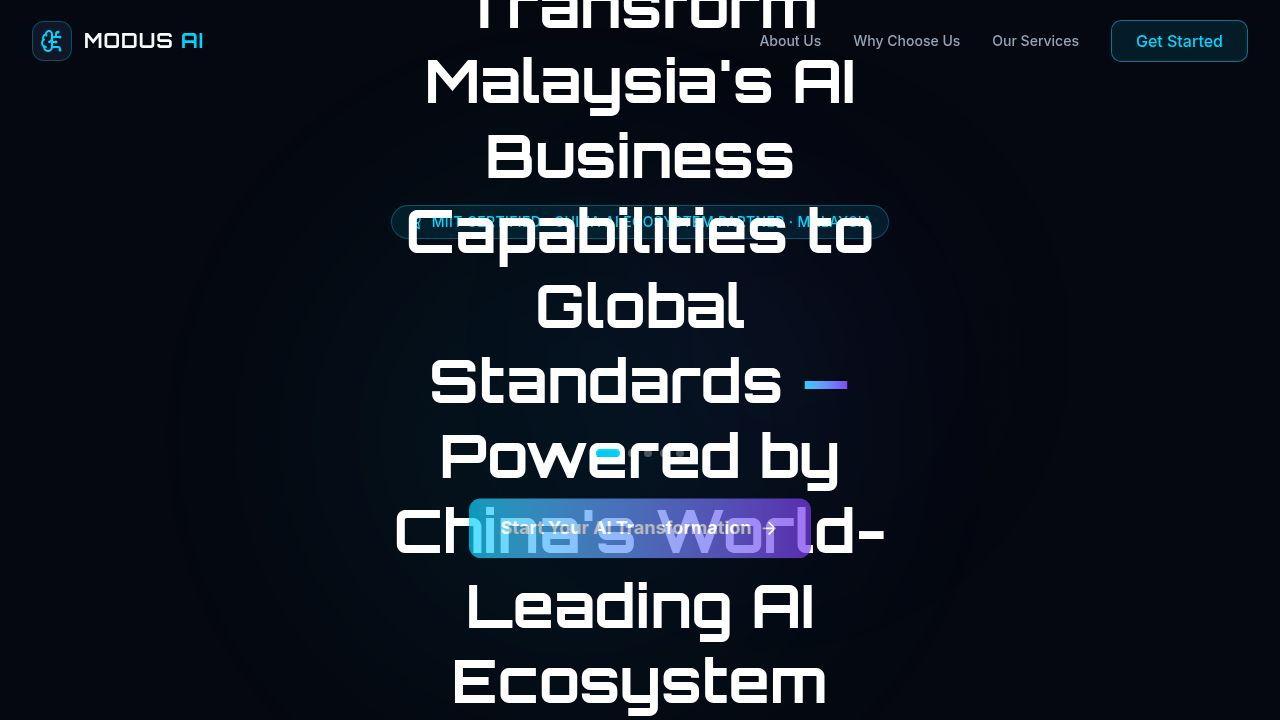
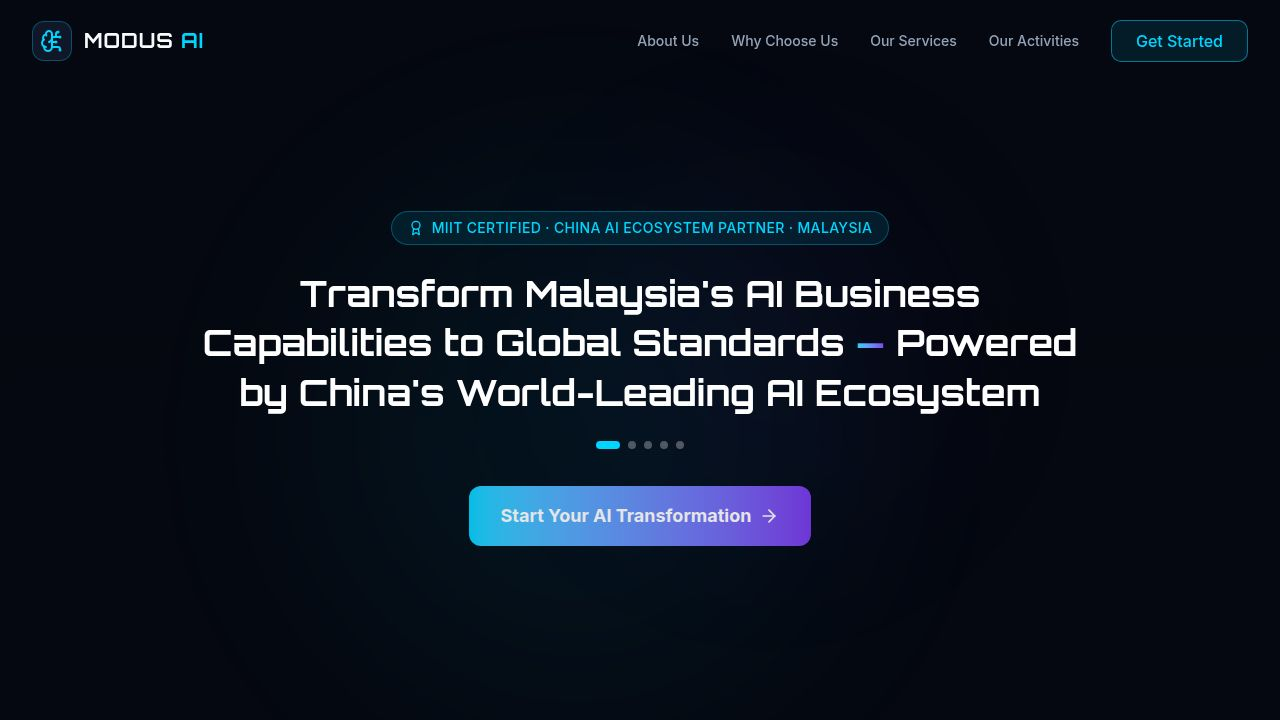
Add a functional contact form for website inquiries
Implement backend API route for form submission and frontend form with state management and validation.

Replit-Commit-Author: Agent
Replit-Commit-Session-Id: a2228504-6bd8-481e-8679-bb3c3d116ad2
Replit-Commit-Checkpoint-Type: full_checkpoint
Replit-Commit-Event-Id: 1f1a5812-d941-4a13-b891-e55131855f3d
Replit-Commit-Screenshot-Url: https://storage.googleapis.com/screenshot-production-us-central1/6e69340e-50b2-4e50-b16f-20813a3c9943/a2228504-6bd8-481e-8679-bb3c3d116ad2/J3GVXy0
Replit-Helium-Checkpoint-Created: true

Changed region(s): [[0.1562, 0.275, 0.8438, 1.0], [0.3125, 0.0, 0.75, 0.2444], [0.7812, 0.0306, 0.8438, 0.0611]]

diff --git a/artifacts/modus-ai/src/pages/details.tsx b/artifacts/modus-ai/src/pages/details.tsx
@@ -1,10 +1,10 @@
-import React, { useEffect } from "react";
+import React, { useEffect, useState } from "react";
 import { Navbar } from "@/components/layout/Navbar";
 import { motion } from "framer-motion";
 import { Link, useLocation } from "wouter";
 import {
   ArrowLeft, CheckCircle2, ChevronRight,
-  Mail, MapPin, Phone, Send, Award, Globe2, BookOpen, Users, Briefcase, Bot, Camera
+  Mail, MapPin, Phone, Send, Award, Globe2, BookOpen, Users, Briefcase, Bot, Camera, Loader2
 } from "lucide-react";
 import launchImg from "@assets/image_1775812766946.png";
 import ribbonImg from "@assets/WhatsApp_Image_2026-04-03_at_5.40.49_PM_1775209677927.jpeg";
@@ -20,8 +20,64 @@ const sectionVariants = {
   visible: { opacity: 1, y: 0, transition: { duration: 0.8, ease: "easeOut" } },
 };
 
+type FormState = {
+  name: string;
+  company: string;
+  email: string;
+  message: string;
+};
+
+type SubmitStatus = "idle" | "loading" | "success" | "error";
+
 export default function Details() {
   const [location] = useLocation();
+  const [form, setForm] = useState<FormState>({ name: "", company: "", email: "", message: "" });
+  const [errors, setErrors] = useState<Partial<FormState>>({});
+  const [submitStatus, setSubmitStatus] = useState<SubmitStatus>("idle");
+  const [errorMessage, setErrorMessage] = useState("");
+
+  const validate = (): boolean => {
+    const newErrors: Partial<FormState> = {};
+    if (!form.name.trim()) newErrors.name = "Name is required";
+    if (!form.email.trim()) newErrors.email = "Email is required";
+    else if (!/^[^\s@]+@[^\s@]+\.[^\s@]+$/.test(form.email)) newErrors.email = "Enter a valid email";
+    if (!form.message.trim()) newErrors.message = "Message is required";
+    setErrors(newErrors);
+    return Object.keys(newErrors).length === 0;
+  };
+
+  const handleChange = (field: keyof FormState) => (
+    e: React.ChangeEvent<HTMLInputElement | HTMLTextAreaElement>
+  ) => {
+    setForm((prev) => ({ ...prev, [field]: e.target.value }));
+    if (errors[field]) setErrors((prev) => ({ ...prev, [field]: undefined }));
+  };
+
+  const handleSubmit = async (e: React.FormEvent) => {
+    e.preventDefault();
+    if (!validate()) return;
+    setSubmitStatus("loading");
+    setErrorMessage("");
+    try {
+      const res = await fetch("/api/contact", {
+        method: "POST",
+        headers: { "Content-Type": "application/json" },
+        body: JSON.stringify({ ...form, honeypot: "" }),
+      });
+      const data = await res.json();
+      if (data.success) {
+        setSubmitStatus("success");
+        setForm({ name: "", company: "", email: "", message: "" });
+        setTimeout(() => setSubmitStatus("idle"), 6000);
+      } else {
+        setSubmitStatus("error");
+        setErrorMessage(data.error ?? "Failed to send. Please try again.");
+      }
+    } catch {
+      setSubmitStatus("error");
+      setErrorMessage("Network error. Please check your connection and try again.");
+    }
+  };
 
   useEffect(() => {
     const hash = window.location.hash;
@@ -344,49 +400,101 @@ export default function Details() {
               </div>
 
               <div className="bg-background/50 p-6 md:p-8 rounded-2xl border border-white/10 backdrop-blur-md">
-                <form className="space-y-4" onSubmit={(e) => e.preventDefault()}>
-                  <div className="grid grid-cols-1 sm:grid-cols-2 gap-4">
-                    <div className="space-y-2">
-                      <label className="text-sm font-medium text-white/70">Name</label>
-                      <Input
-                        className="bg-black/50 border-white/10 focus-visible:border-primary focus-visible:ring-primary/20"
-                        placeholder="John Doe"
-                        data-testid="form-name"
-                      />
-                    </div>
-                    <div className="space-y-2">
-                      <label className="text-sm font-medium text-white/70">Company</label>
-                      <Input
-                        className="bg-black/50 border-white/10 focus-visible:border-primary focus-visible:ring-primary/20"
-                        placeholder="Acme Corp"
-                        data-testid="form-company"
-                      />
-                    </div>
-                  </div>
-                  <div className="space-y-2">
-                    <label className="text-sm font-medium text-white/70">Email</label>
-                    <Input
-                      type="email"
-                      className="bg-black/50 border-white/10 focus-visible:border-primary focus-visible:ring-primary/20"
-                      placeholder="[email redacted]"
-                      data-testid="form-email"
-                    />
-                  </div>
-                  <div className="space-y-2">
-                    <label className="text-sm font-medium text-white/70">Message</label>
-                    <Textarea
-                      className="bg-black/50 border-white/10 focus-visible:border-primary focus-visible:ring-primary/20 min-h-[120px]"
-                      placeholder="Tell us about your business goals..."
-                      data-testid="form-message"
-                    />
-                  </div>
-                  <Button
-                    className="w-full bg-gradient-to-r from-primary to-secondary hover:opacity-90 text-white font-bold h-12 mt-4 transition-all hover:shadow-[0_0_20px_rgba(0,212,255,0.4)]"
-                    data-testid="form-submit"
+                {submitStatus === "success" ? (
+                  <motion.div
+                    initial={{ opacity: 0, scale: 0.95 }}
+                    animate={{ opacity: 1, scale: 1 }}
+                    className="flex flex-col items-center justify-center text-center py-12 gap-4"
                   >
-                    <Send className="w-4 h-4 mr-2" /> Send Message
-                  </Button>
-                </form>
+                    <div className="w-16 h-16 rounded-full bg-green-500/10 border border-green-500/30 flex items-center justify-center">
+                      <CheckCircle2 className="w-8 h-8 text-green-400" />
+                    </div>
+                    <h3 className="text-xl font-display font-bold text-white">Message Sent!</h3>
+                    <p className="text-muted-foreground text-sm max-w-xs">
+                      Thank you for reaching out. Our team will get back to you shortly.
+                    </p>
+                  </motion.div>
+                ) : (
+                  <form className="space-y-4" onSubmit={handleSubmit} noValidate>
+                    {/* Honeypot — hidden from real users */}
+                    <input
+                      type="text"
+                      name="honeypot"
+                      style={{ display: "none" }}
+                      tabIndex={-1}
+                      autoComplete="off"
+                      aria-hidden="true"
+                    />
+                    <div className="grid grid-cols-1 sm:grid-cols-2 gap-4">
+                      <div className="space-y-1">
+                        <label className="text-sm font-medium text-white/70">Name <span className="text-primary">*</span></label>
+                        <Input
+                          className={`bg-black/50 border-white/10 focus-visible:border-primary focus-visible:ring-primary/20 ${errors.name ? "border-red-500/60" : ""}`}
+                          placeholder="John Doe"
+                          value={form.name}
+                          onChange={handleChange("name")}
+                          disabled={submitStatus === "loading"}
+                          data-testid="form-name"
+                        />
+                        {errors.name && <p className="text-xs text-red-400">{errors.name}</p>}
+                      </div>
+                      <div className="space-y-1">
+                        <label className="text-sm font-medium text-white/70">Company</label>
+                        <Input
+                          className="bg-black/50 border-white/10 focus-visible:border-primary focus-visible:ring-primary/20"
+                          placeholder="Acme Corp"
+                          value={form.company}
+                          onChange={handleChange("company")}
+                          disabled={submitStatus === "loading"}
+                          data-testid="form-company"
+                        />
+                      </div>
+                    </div>
+                    <div className="space-y-1">
+                      <label className="text-sm font-medium text-white/70">Email <span className="text-primary">*</span></label>
+                      <Input
+                        type="email"
+                        className={`bg-black/50 border-white/10 focus-visible:border-primary focus-visible:ring-primary/20 ${errors.email ? "border-red-500/60" : ""}`}
+                        placeholder="[email redacted]"
+                        value={form.email}
+                        onChange={handleChange("email")}
+                        disabled={submitStatus === "loading"}
+                        data-testid="form-email"
+                      />
+                      {errors.email && <p className="text-xs text-red-400">{errors.email}</p>}
+                    </div>
+                    <div className="space-y-1">
+                      <label className="text-sm font-medium text-white/70">Message <span className="text-primary">*</span></label>
+                      <Textarea
+                        className={`bg-black/50 border-white/10 focus-visible:border-primary focus-visible:ring-primary/20 min-h-[120px] ${errors.message ? "border-red-500/60" : ""}`}
+                        placeholder="Tell us about your business goals..."
+                        value={form.message}
+                        onChange={handleChange("message")}
+                        disabled={submitStatus === "loading"}
+                        data-testid="form-message"
+                      />
+                      {errors.message && <p className="text-xs text-red-400">{errors.message}</p>}
+                    </div>
+                    {submitStatus === "error" && (
+                      <div className="flex items-start gap-2 p-3 rounded-lg bg-red-500/10 border border-red-500/30 text-red-400 text-sm">
+                        <span className="shrink-0 mt-0.5">⚠</span>
+                        <span>{errorMessage}</span>
+                      </div>
+                    )}
+                    <Button
+                      type="submit"
+                      disabled={submitStatus === "loading"}
+                      className="w-full bg-gradient-to-r from-primary to-secondary hover:opacity-90 text-white font-bold h-12 mt-4 transition-all hover:shadow-[0_0_20px_rgba(0,212,255,0.4)] disabled:opacity-60 disabled:cursor-not-allowed"
+                      data-testid="form-submit"
+                    >
+                      {submitStatus === "loading" ? (
+                        <><Loader2 className="w-4 h-4 mr-2 animate-spin" /> Sending...</>
+                      ) : (
+                        <><Send className="w-4 h-4 mr-2" /> Send Message</>
+                      )}
+                    </Button>
+                  </form>
+                )}
               </div>
             </div>
           </div>

diff --git a/artifacts/api-server/src/routes/contact.ts b/artifacts/api-server/src/routes/contact.ts
@@ -1,0 +1,95 @@
+import { Router } from "express";
+import { Resend } from "resend";
+
+const router = Router();
+
+const resend = new Resend(process.env.RESEND_API_KEY);
+
+const RECIPIENT = "[email redacted]";
+
+function validateEmail(email: string): boolean {
+  return /^[^\s@]+@[^\s@]+\.[^\s@]+$/.test(email);
+}
+
+function sanitize(str: string): string {
+  return str.trim().slice(0, 2000);
+}
+
+router.post("/contact", async (req, res) => {
+  const { name, company, email, message, honeypot } = req.body;
+
+  if (honeypot) {
+    res.status(200).json({ success: true });
+    return;
+  }
+
+  const cleanName = sanitize(name ?? "");
+  const cleanCompany = sanitize(company ?? "");
+  const cleanEmail = sanitize(email ?? "");
+  const cleanMessage = sanitize(message ?? "");
+
+  if (!cleanName || !cleanEmail || !cleanMessage) {
+    res.status(400).json({ success: false, error: "Name, email, and message are required." });
+    return;
+  }
+
+  if (!validateEmail(cleanEmail)) {
+    res.status(400).json({ success: false, error: "Please enter a valid email address." });
+    return;
+  }
+
+  try {
+    const { error } = await resend.emails.send({
+      from: "MODUS AI Contact Form <[email redacted]>",
+      to: [RECIPIENT],
+      replyTo: cleanEmail,
+      subject: `New Enquiry from ${cleanName}${cleanCompany ? ` — ${cleanCompany}` : ""}`,
+      html: `
+        <div style="font-family: Arial, sans-serif; max-width: 600px; margin: 0 auto; background: #0a0f1e; color: #e2e8f0; padding: 32px; border-radius: 12px;">
+          <div style="border-bottom: 2px solid #00d4ff; padding-bottom: 16px; margin-bottom: 24px;">
+            <h1 style="color: #00d4ff; margin: 0; font-size: 24px;">MODUS AI Associates</h1>
+            <p style="color: #94a3b8; margin: 4px 0 0 0; font-size: 14px;">New Contact Form Submission</p>
+          </div>
+
+          <table style="width: 100%; border-collapse: collapse;">
+            <tr>
+              <td style="padding: 10px 0; color: #94a3b8; font-size: 14px; width: 100px;">Name</td>
+              <td style="padding: 10px 0; color: #e2e8f0; font-weight: bold;">${cleanName}</td>
+            </tr>
+            ${cleanCompany ? `
+            <tr>
+              <td style="padding: 10px 0; color: #94a3b8; font-size: 14px;">Company</td>
+              <td style="padding: 10px 0; color: #e2e8f0;">${cleanCompany}</td>
+            </tr>` : ""}
+            <tr>
+              <td style="padding: 10px 0; color: #94a3b8; font-size: 14px;">Email</td>
+              <td style="padding: 10px 0;"><a href="mailto:${cleanEmail}" style="color: #00d4ff;">${cleanEmail}</a></td>
+            </tr>
+          </table>
+
+          <div style="margin-top: 24px; background: #111827; padding: 20px; border-radius: 8px; border-left: 3px solid #7c3aed;">
+            <p style="color: #94a3b8; font-size: 12px; margin: 0 0 8px 0; text-transform: uppercase; letter-spacing: 1px;">Message</p>
+            <p style="color: #e2e8f0; margin: 0; line-height: 1.7; white-space: pre-wrap;">${cleanMessage}</p>
+          </div>
+
+          <p style="color: #475569; font-size: 12px; margin-top: 32px; text-align: center;">
+            Sent via MODUS AI Associates website contact form
+          </p>
+        </div>
+      `,
+    });
+
+    if (error) {
+      console.error("Resend error:", error);
+      res.status(500).json({ success: false, error: "Failed to send message. Please try again." });
+      return;
+    }
+
+    res.status(200).json({ success: true });
+  } catch (err) {
+    console.error("Contact route error:", err);
+    res.status(500).json({ success: false, error: "An unexpected error occurred. Please try again." });
+  }
+});
+
+export default router;

diff --git a/artifacts/api-server/src/routes/index.ts b/artifacts/api-server/src/routes/index.ts
@@ -1,8 +1,10 @@
 import { Router, type IRouter } from "express";
 import healthRouter from "./health";
+import contactRouter from "./contact";
 
 const router: IRouter = Router();
 
 router.use(healthRouter);
+router.use(contactRouter);
 
 export default router;